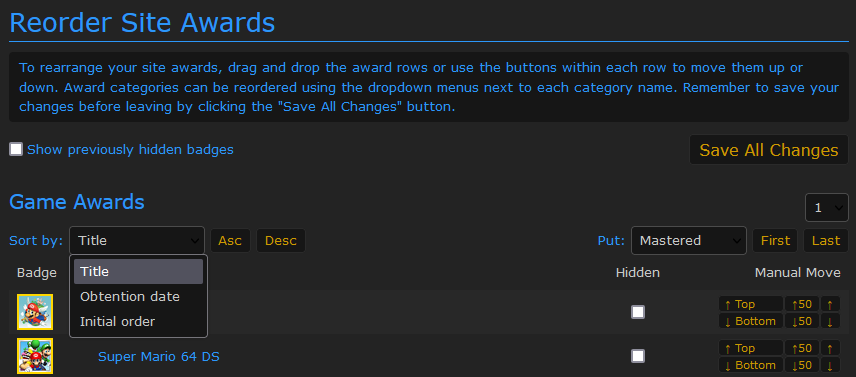
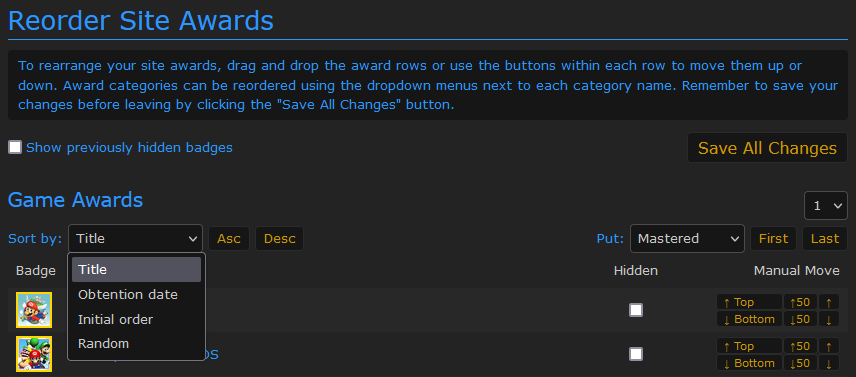
RA_EnhancedHubSort, RA_ReorderAwardsHelper: adds random sort (shuffle)

diff --git a/RA_ReorderAwardsHelper.user.js b/RA_ReorderAwardsHelper.user.js
@@ -1,7 +1,7 @@
 // ==UserScript==
 // @name         RA_ReorderAwardsHelper
 // @namespace    RA
-// @version      0.1
+// @version      0.2
 // @description  Allows to sort game awards automatically on Reorder Site Awards page
 // @author       Mindhral
 // @homepage     https://github.com/Mindhral/RA_userscripts
@@ -26,8 +26,23 @@ const MainSorts = {
         label: 'Initial order',
         extractInfo: r => { },
         compare: (r1, r2) => r1.index - r2.index
+    },
+    'random': {
+        label: 'Random',
+        extractInfo: r => { },
+        compare: (r1, r2) => 0
     }
 };
+
+function shuffle(array) {
+    let index = array.length;
+    while (index > 1) {
+        let newIdx = Math.floor(Math.random() * index);
+        index--;
+        [array[index], array[newIdx]] = [array[newIdx], array[index]];
+    }
+    return array;
+}
 
 const Compares = {
     reverse: c => (a, b) => c(b, a),
@@ -71,6 +86,8 @@ document.addEventListener("DOMContentLoaded", () => {
     });
 
     const sortRows = compare => {
+        // forced to do a special case as random sort using compare only (Math.random()-0.5) is not evenly distributed
+        if (compare === MainSorts.random.compare) shuffle(rowInfos);
         const tbody = awardsTable.getElementsByTagName('tbody')[0];
         rowInfos.sort(compare).forEach(r => tbody.append(r.element));
     }
@@ -90,6 +107,9 @@ document.addEventListener("DOMContentLoaded", () => {
     mainSortDiv.append(mainSortLabel, ' ', mainSortSelect);
     const ascSortButton = createButton('Asc', mainSortDiv);
     const descSortButton = createButton('Desc', mainSortDiv);
+    mainSortSelect.addEventListener('change', () => {
+        descSortButton.disabled = mainSortSelect.selectedOptions[0].value === 'random';
+    });
 
     const getCompare = () => MainSorts[mainSortSelect.selectedOptions[0].value].compare;
     ascSortButton.addEventListener('click', () => sortRows(getCompare()));

diff --git a/RA_EnhancedHubSort.user.js b/RA_EnhancedHubSort.user.js
@@ -1,7 +1,7 @@
 // ==UserScript==
 // @name         RA_EnhancedHubSort
 // @namespace    RA
-// @version      0.1
+// @version      0.2
 // @description  Sorts entries in a hub locally, with additional sort and filtering options
 // @author       Mindhral
 // @homepage     https://github.com/Mindhral/RA_userscripts
@@ -27,6 +27,10 @@ const Sorts = {
     'retropoints': {
         label: 'RetroPoints',
         compare: (r1, r2) => r1.retropoints - r2.retropoints
+    },
+    'random': {
+        label: 'Random',
+        compare: (r1, r2) => 0
     }
 };
 
@@ -86,6 +90,16 @@ function createOption(value, labelTxt, select) {
     option.innerHTML = labelTxt;
     select.append(option);
     return option;
+}
+
+function shuffle(array) {
+    let index = array.length;
+    while (index > 1) {
+        let newIdx = Math.floor(Math.random() * index);
+        index--;
+        [array[index], array[newIdx]] = [array[newIdx], array[index]];
+    }
+    return array;
 }
 
 document.addEventListener("DOMContentLoaded", () => {
@@ -154,7 +168,10 @@ document.addEventListener("DOMContentLoaded", () => {
         if (rowsData[0].index == null) {
             rowsData.forEach((row, i) => {row.index = i});
         }
-        let compare = Sorts[sortSelect.selectedOptions[0].value].compare;
+        const sort = Sorts[sortSelect.selectedOptions[0].value];
+        // forced to do a special case as random sort using compare only (Math.random()-0.5) is not evenly distributed
+        if (sort == Sorts.random) shuffle(rowsData);
+        let compare = sort.compare;
         if (descCheckbox.checked) compare = Compares.reverse(compare);
         if (hubsLastCheckbox.checked) compare = Compares.compose(hubsCompare, compare);
 

diff --git a/README.md b/README.md
@@ -93,17 +93,19 @@ Modifies the sorting of entries on a Hub page and adds some filtering.
 
 2. Adds sort by *Points* and by *Title*. *Original* restores the order from when the page was loaded. If used in combination with *RA_colorMarkGames*, the order produced by that script is used.
 
-3. Possibility to always put hubs at the end, regardless of the sorting option.
+3. Adds *Random* sort (shuffle). Using the *desc.* checkbox is a way to re-shuffle in one click.
 
-3. Filtering by console (including the special value *Hubs*), tag (*&lt;none&gt;* for entries without tags) or status (with/without achievements).
+4. Possibility to always put hubs at the end, regardless of the sorting option.
 
-4. Adds the missing columns on hubs rows, which fixes the alternating colors on the right side.
+5. Filtering by console (including the special value *Hubs*), tag (*&lt;none&gt;* for entries without tags) or status (with/without achievements).
+
+6. Adds the missing columns on hubs rows, which fixes the alternating colors on the right side.
 
 ## RA_ReorderAwardsHelper
 
 Allows to do some automatic sorting on *Reorder Site Awards* page.
 
-1. Sorts all awards by title or obtention date, or reset to initial order (from when the page was loaded). Select the order then click either *Asc* or *Desc* for ascending or descending order.
+1. Sorts all awards by title or unlock date, or reset to initial order (from when the page was loaded). Select the order then click either *Asc* or *Desc* for ascending or descending order. *Random* sort allows to shuffle the list.
 
 ![sort by list](/assets/ReorderAwardsHelper_sortby.png)
 
